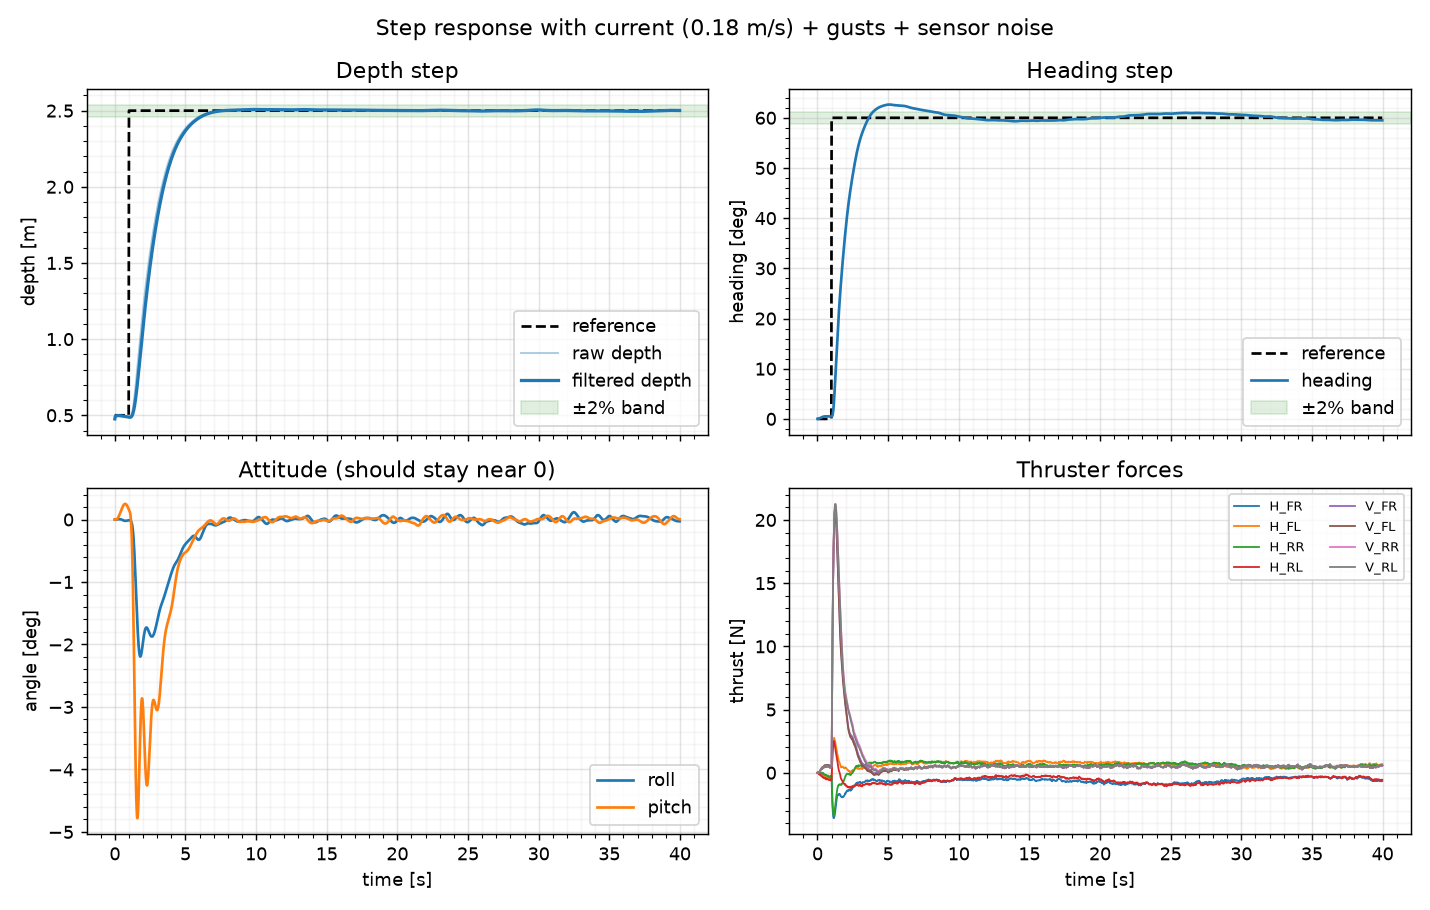
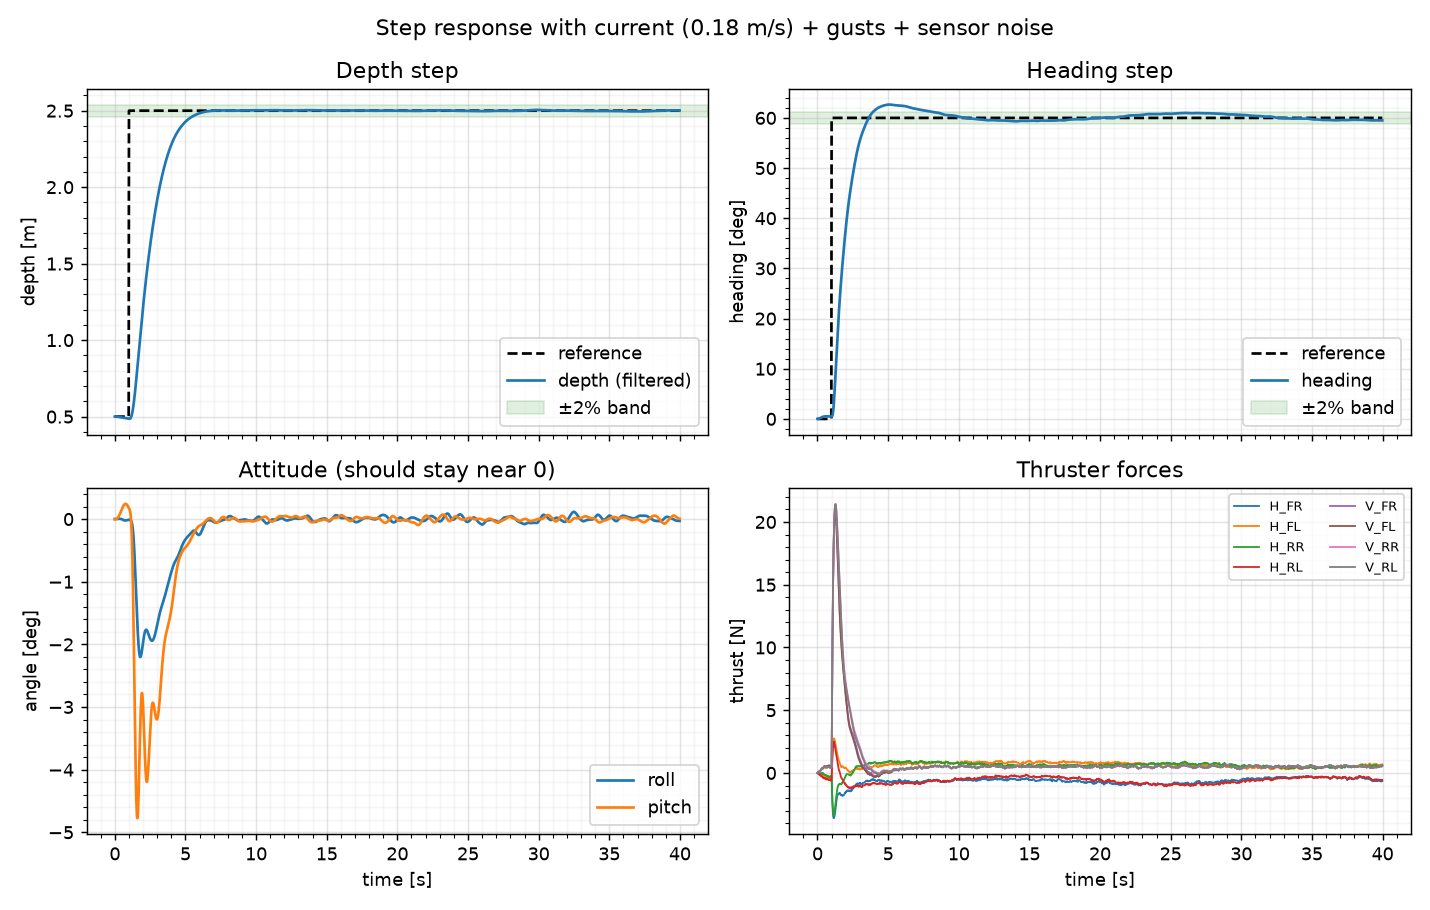
feat: feed Kalman filter into depth control loop
Pass DepthKalmanFilter to sim.run() so the controller receives
filtered depth estimates. Reverts noise sigma to realistic 0.01 m.
Settling time holds at 4.5 s vs 36 s with unfiltered noisy depth.

diff --git a/run_demo.py b/run_demo.py
@@ -33,12 +33,12 @@ def step_scenario():
         on = m.t >= t_step
         return Reference(depth=z1 if on else z0, heading=psi1 if on else 0.0), False
 
-    log = run(veh, VehicleController(), ThrusterConfig(), ref_fn, 40.0)
+    kf = DepthKalmanFilter(q=0.001, r=0.05)
+    log = run(veh, VehicleController(), ThrusterConfig(), ref_fn, 40.0,
+              depth_filter=kf)
     t = log["t"]
     heading_deg = np.degrees(np.unwrap(log["eta"][:, 5]))
-    kf = DepthKalmanFilter(q=0.001, r=0.05)
     depth_raw = log["eta"][:, 2]
-    depth_est = np.array([kf.update(z) for z in depth_raw])
     metrics = {
         "depth_step_0.5m_to_2.5m": step_metrics(t, log["eta"][:, 2], z0, z1, t_step),
         "heading_step_0_to_60deg": step_metrics(t, heading_deg, 0.0, 60.0, t_step),
@@ -48,8 +48,7 @@ def step_scenario():
 
     fig, ax = plt.subplots(2, 2, figsize=(11, 7), sharex=True)
     ax[0, 0].plot(t, log["ref_depth"], "k--", label="reference")
-    ax[0, 0].plot(t, depth_raw, color="tab:blue", alpha=0.4, lw=1, label="raw depth")
-    ax[0, 0].plot(t, depth_est, color="tab:blue", lw=1.8, label="filtered depth")
+    ax[0, 0].plot(t, depth_raw, label="depth (filtered)")
     ax[0, 0].set(ylabel="depth [m]", title="Depth step")
     ax[0, 1].plot(t, np.degrees(log["ref_heading"]), "k--", label="reference")
     ax[0, 1].plot(t, heading_deg, label="heading")

diff --git a/auv/sim.py b/auv/sim.py
@@ -2,13 +2,15 @@
 import numpy as np
 
 
-def run(vehicle, controller, allocator, ref_fn, t_max):
+def run(vehicle, controller, allocator, ref_fn, t_max, depth_filter=None):
     """ref_fn(measurement) -> (Reference, done). Returns a dict of logged arrays."""
     log = {k: [] for k in ["t", "eta", "nu", "ref_depth", "ref_heading", "ref_surge",
                            "tau", "u_cmd", "u_act"]}
     dt = vehicle.dt
     while vehicle.t < t_max:
         meas = vehicle.read_state()
+        if depth_filter is not None:
+            meas.eta[2] = depth_filter.update(meas.eta[2])
         ref, done = ref_fn(meas)
         tau = controller.update(meas, ref, dt)
         u = allocator.allocate(tau)
